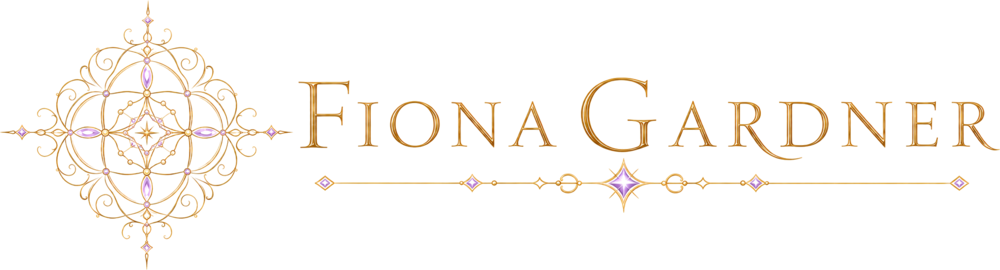
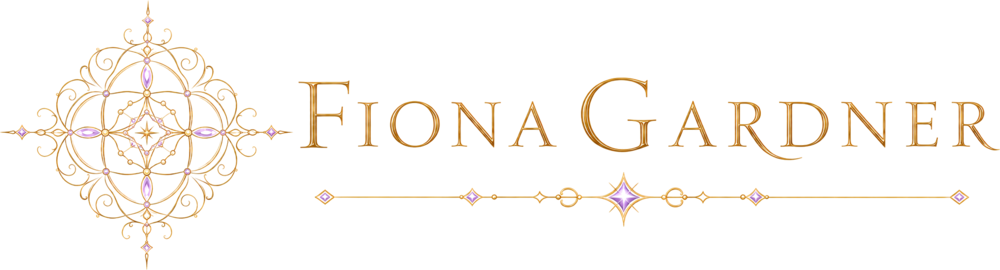
Home page: glowing name line, living waters, turning circles
- Lower photo shows plainly again, without the golden-light fade-in.
- The violet gems and gold diamonds on the line under the name glow
  in turn, from the centre star outward.
- The line under the name sits a little lower in the brandmark, on
  every page; brandmark and site.css links carry a new version tag.
- Tagline: "An observer of life's living waters."
- The work: water itself, in rain, snow and dew.
- The round images on the Reflections and Explorations cards turn
  slowly inside a soft violet and gold halo; on Explorations the
  three glow one after another.
- Visitors who ask for less motion see everything still.

Changed region(s): [[0.31, 0.5926, 0.992, 0.8296]]

diff --git a/docs/index.html b/docs/index.html
@@ -3,16 +3,16 @@
 <head>
   <meta charset="utf-8">
   <meta name="viewport" content="width=device-width, initial-scale=1">
-  <meta name="description" content="Fiona Gardner, an observer of life's hidden waters: blood, living water (urine), rain and dew through the microscope.">
+  <meta name="description" content="Fiona Gardner, an observer of life's living waters: blood, living water (urine), rain, snow and dew through the microscope.">
   <meta name="color-scheme" content="light dark">
   <meta property="og:title" content="Fiona Gardner">
-  <meta property="og:description" content="An observer of life's hidden waters.">
+  <meta property="og:description" content="An observer of life's living waters.">
   <meta property="og:image" content="https://fionagardner.org/assets/fiona-portrait.jpg">
   <title>Fiona Gardner</title>
   <link rel="icon" href="assets/fiona-gardner-symbol.png">
   <link rel="preconnect" href="https://fonts.googleapis.com">
   <link rel="stylesheet" href="https://fonts.googleapis.com/css2?family=Cormorant+Garamond:ital,wght@0,500;0,600;1,500&family=Source+Serif+4:ital,wght@0,400;0,600;1,400&display=swap">
-  <link rel="stylesheet" href="site.css?v=20261125">
+  <link rel="stylesheet" href="site.css?v=20261126">
   <script src="theme-init.js"></script>
 </head>
 <body>
@@ -23,8 +23,8 @@
       <video class="hero-video" src="assets/fiona-portrait-motion.mp4" poster="assets/fiona-portrait-motion.jpg" autoplay loop muted playsinline preload="auto" aria-hidden="true"></video>
     </div>
     <div class="hero-text">
-      <h1><img class="brandmark" src="assets/fiona-gardner-brandmark.png" alt="Fiona Gardner" width="1000" height="270"></h1>
-      <p class="line">An observer of life’s hidden waters.</p>
+      <h1 class="brandmark-frame"><img class="brandmark" src="assets/fiona-gardner-brandmark.png?v=20261126" alt="Fiona Gardner" width="1000" height="270"><span class="gem gem--c" aria-hidden="true"></span><span class="gem gem--l1" aria-hidden="true"></span><span class="gem gem--r1" aria-hidden="true"></span><span class="gem gem--l2" aria-hidden="true"></span><span class="gem gem--r2" aria-hidden="true"></span><span class="gem gem--gold gem--gl1" aria-hidden="true"></span><span class="gem gem--gold gem--gr1" aria-hidden="true"></span><span class="gem gem--gold gem--gold-sm gem--gl2" aria-hidden="true"></span><span class="gem gem--gold gem--gold-sm gem--gr2" aria-hidden="true"></span></h1>
+      <p class="line">An observer of life’s living waters.</p>
     </div>
   </header>
 
@@ -32,7 +32,7 @@
     <section class="shell">
       <p class="eyebrow">The work</p>
       <h2>Rivers of light and water.</h2>
-      <p class="soft">Fiona Gardner explores hidden landscapes through the microscope: blood and living water (urine), and water itself, in rain and dew. Under the lens they appear as rivers of light and water, carrying memory and vitality.</p>
+      <p class="soft">Fiona Gardner explores hidden landscapes through the microscope: blood and living water (urine), and water itself, in rain, snow and dew. Under the lens they appear as rivers of light and water, carrying memory and vitality.</p>
       <p><a class="button" href="gallery.html">See the gallery</a></p>
     </section>
 
@@ -49,14 +49,14 @@
           <a class="way" href="testimonials.html">
             <span class="tag">In their words</span>
             <h3>Reflections from Clients</h3>
-            <span class="way-icons"><img src="assets/testimonials/el-maltese-cross.jpg" alt="" width="640" height="640" loading="lazy"></span>
+            <span class="way-icons"><img class="turning-cross" src="assets/testimonials/el-maltese-cross.jpg" alt="" width="640" height="640" loading="lazy"></span>
             <p>What it is like to see your own living waters.</p>
             <span class="go">Read&nbsp; →</span>
           </a>
           <a class="way" href="explorations.html">
             <span class="tag">Writings</span>
             <h3>Explorations</h3>
-            <span class="way-icons"><img src="assets/explorations/exploring-water-t.jpg" alt="" width="600" height="600" loading="lazy"><img src="assets/explorations/geometry-t.jpg" alt="" width="600" height="600" loading="lazy"><img src="assets/explorations/intention-t.jpg" alt="" width="600" height="600" loading="lazy"></span>
+            <span class="way-icons"><img class="turning-cross" src="assets/explorations/exploring-water-t.jpg" alt="" width="600" height="600" loading="lazy"><img class="turning-cross" src="assets/explorations/geometry-t.jpg" alt="" width="600" height="600" loading="lazy"><img class="turning-cross" src="assets/explorations/intention-t.jpg" alt="" width="600" height="600" loading="lazy"></span>
             <p>Fiona’s writing from the microscope, on water, geometry and consciousness.</p>
             <span class="go">Read&nbsp; →</span>
           </a>
@@ -77,10 +77,7 @@
     </section>
 
     <section class="band">
-      <div class="band-frame">
-        <img class="band-photo" src="assets/fiona-light.jpg" alt="Fiona Gardner, face lifted to the sun, leaning on a weathered log" width="1100" height="1650" loading="lazy">
-        <span class="band-glow" aria-hidden="true"></span>
-      </div>
+      <img class="band-photo" src="assets/fiona-light.jpg" alt="Fiona Gardner, face lifted to the sun, leaning on a weathered log" width="1100" height="1650" loading="lazy">
       <div class="band-text">
         <p class="honour">Recognising the light, water and intelligence within ourselves.</p>
         <p class="soft">Honouring the harmony of the body, mind and spirit.</p>
@@ -111,22 +108,6 @@
     <p>Photographs © LightFinder Photography</p>
   </footer>
   <script src="theme.js" defer></script>
-  <script>
-    // The lower photo comes out of soft golden light each time it scrolls into view, then stays still.
-    // Once it has gone fully off screen, it is quietly reset so it can play again next time.
-    (() => {
-      const frame = document.querySelector('.band-frame');
-      if (!frame || matchMedia('(prefers-reduced-motion: reduce)').matches || !('IntersectionObserver' in window)) return;
-      frame.classList.add('is-waiting');
-      const io = new IntersectionObserver((entries) => {
-        entries.forEach((e) => {
-          if (e.intersectionRatio >= 0.3) frame.classList.add('is-lit');
-          else if (!e.isIntersecting) frame.classList.remove('is-lit');
-        });
-      }, { threshold: [0, 0.3] });
-      io.observe(frame);
-    })();
-  </script>
   <script>
     // Visitors who ask for less motion see the still first frame.
     if (matchMedia('(prefers-reduced-motion: reduce)').matches) document.querySelector('.hero-video')?.pause();

diff --git a/docs/site.css b/docs/site.css
@@ -60,6 +60,31 @@ img { display: block; max-width: 100%; height: auto; }
   text-align: center;
 }
 .brandmark { width: min(100%, 30rem); }
+/* The five violet gems on the line under the name glow softly in turn: the centre star first,
+   then the inner pair, then the outer pair, like light travelling out along the line. Positions are
+   the gems' centres in the brandmark file (1000 x 270). Visitors who ask for less motion see no glow. */
+.brandmark-frame { position: relative; width: min(100%, 30rem); }
+.brandmark-frame .brandmark { width: 100%; }
+.gem { position: absolute; top: 72.9%; width: 4.5%; aspect-ratio: 1; translate: -50% -50%; border-radius: 50%; pointer-events: none;
+  background: radial-gradient(circle, rgba(255, 255, 255, .95) 0%, rgba(214, 190, 255, .7) 28%, rgba(196, 160, 245, .25) 55%, transparent 72%);
+  opacity: 0; animation: gem-glow 7s ease-in-out infinite; }
+.gem--c { left: 62.35%; width: 8%; }
+.gem--l1 { left: 47.15%; animation-delay: .7s; }
+.gem--r1 { left: 75.55%; animation-delay: .7s; }
+.gem--l2 { left: 32.45%; animation-delay: 1.4s; }
+.gem--r2 { left: 95.85%; animation-delay: 1.4s; }
+/* The little gold diamonds between the gems glow too, more gently and in warm gold, as the light passes them. */
+.gem--gold { top: 72.95%; width: 3.2%;
+  background: radial-gradient(circle, rgba(255, 246, 214, .9) 0%, rgba(240, 205, 120, .55) 30%, rgba(225, 185, 95, .18) 55%, transparent 72%);
+  animation-name: gem-glow-soft; }
+.gem--gold-sm { width: 2.2%; }
+.gem--gl1 { left: 53.95%; animation-delay: .35s; }
+.gem--gr1 { left: 70.25%; animation-delay: .35s; }
+.gem--gl2 { left: 49.4%; animation-delay: .55s; }
+.gem--gr2 { left: 74.25%; animation-delay: .55s; }
+@keyframes gem-glow-soft { 0%, 100% { opacity: 0; scale: .7; } 18% { opacity: .75; scale: 1.05; } 40% { opacity: 0; scale: .85; } }
+@keyframes gem-glow { 0%, 100% { opacity: 0; scale: .6; } 18% { opacity: 1; scale: 1.15; } 40% { opacity: 0; scale: .8; } }
+@media (prefers-reduced-motion: reduce) { .gem { display: none; } }
 h1 { margin: 0; }
 .line { margin: 0; color: var(--ink-soft); font-family: var(--display); font-style: italic; font-size: clamp(1.5rem, 3.4vw, 2rem); line-height: 1.25; }
 .button {
@@ -98,19 +123,22 @@ a.way:hover, a.way:focus-visible { border-color: var(--gold); }
 .way .tag { color: var(--violet); font-size: .72rem; font-weight: 600; letter-spacing: .14em; text-transform: uppercase; }
 .way-icons { display: flex; gap: .45rem; margin: .2rem 0; }
 .way-icons img { width: 2.8rem; height: 2.8rem; border-radius: 50%; object-fit: cover; box-shadow: 0 0 0 1px var(--line); }
+/* The round images on the Reflections and Explorations cards turn very slowly, about once a minute and a half,
+   with a soft violet and gold halo breathing around them. On Explorations the three glow one after another,
+   like the light along the name line. Visitors who ask for less motion see them still. */
+.way-icons .turning-cross { animation: cross-turn 90s linear infinite, cross-halo 6s ease-in-out infinite; }
+.way-icons .turning-cross:nth-child(2) { animation-delay: -30s, 2s; }
+.way-icons .turning-cross:nth-child(3) { animation-delay: -60s, 4s; }
+@keyframes cross-turn { to { rotate: 360deg; } }
+@keyframes cross-halo {
+  0%, 100% { box-shadow: 0 0 0 1px var(--line), 0 0 4px 0 rgba(196, 160, 245, .25); }
+  50% { box-shadow: 0 0 0 1px var(--gold), 0 0 14px 3px rgba(196, 160, 245, .55), 0 0 22px 6px rgba(225, 185, 95, .25); }
+}
+@media (prefers-reduced-motion: reduce) { .way-icons .turning-cross { animation: none; } }
 .way .go { color: var(--gold); font-size: .8rem; letter-spacing: .12em; text-transform: uppercase; }
 .band { display: grid; grid-template-columns: minmax(0, 34rem) minmax(0, 1fr); align-items: center; }
 /* Shown whole, never trimmed, like the hero photo. */
 .band-photo { width: 100%; height: auto; }
-/* The lower photo comes out of soft golden light, like the sun coming out, each time it is seen; then it stays still.
-   Only when script is running (is-waiting), so without it the photo simply shows. */
-.band-frame { position: relative; overflow: hidden; }
-.band-glow { position: absolute; inset: 0; pointer-events: none; opacity: 0;
-  background: radial-gradient(ellipse 75% 60% at 52% 44%, #fff8e6 0%, #f6e7c4 45%, #e9d5a8 100%); }
-.band-frame.is-waiting .band-glow { opacity: 1; }
-.band-frame.is-waiting .band-photo { filter: brightness(1.7) contrast(.6) sepia(.3); }
-.band-frame.is-lit .band-glow { opacity: 0; transition: opacity 4.5s cubic-bezier(.4, 0, .3, 1); }
-.band-frame.is-lit .band-photo { filter: none; transition: filter 5.5s cubic-bezier(.4, 0, .3, 1); }
 .band-text { display: grid; align-content: center; gap: 1rem; padding: 3.5rem 2rem; }
 .band-text p { margin: 0; }
 .honour { font-family: var(--display); font-style: italic; font-size: 1.5rem; line-height: 1.35; color: var(--gold); }

diff --git a/docs/testimonials.html b/docs/testimonials.html
@@ -12,13 +12,13 @@
   <link rel="icon" href="assets/fiona-gardner-symbol.png">
   <link rel="preconnect" href="https://fonts.googleapis.com">
   <link rel="stylesheet" href="https://fonts.googleapis.com/css2?family=Cormorant+Garamond:ital,wght@0,500;0,600;1,500&amp;family=Source+Serif+4:ital,wght@0,400;0,600;1,400&amp;display=swap">
-  <link rel="stylesheet" href="site.css?v=20261125">
+  <link rel="stylesheet" href="site.css?v=20261126">
   <script src="theme-init.js"></script>
 </head>
 <body>
   <button class="theme-toggle" type="button" aria-label="Switch to light theme" aria-pressed="true" title="Switch to light theme"><span class="theme-toggle__track" aria-hidden="true"><span class="theme-toggle__sun">✦</span><span class="theme-toggle__moon">☾</span><span class="theme-toggle__knob"></span></span><span class="visually-hidden theme-toggle__label">Switch to light theme</span></button>
   <header class="page-head">
-    <a href="./"><img src="assets/fiona-gardner-brandmark.png" alt="Fiona Gardner, home" width="1000" height="270"></a>
+    <a href="./"><img src="assets/fiona-gardner-brandmark.png?v=20261126" alt="Fiona Gardner, home" width="1000" height="270"></a>
   </header>
 
   <main>

diff --git a/docs/gallery.html b/docs/gallery.html
@@ -12,13 +12,13 @@
   <link rel="icon" href="assets/fiona-gardner-symbol.png">
   <link rel="preconnect" href="https://fonts.googleapis.com">
   <link rel="stylesheet" href="https://fonts.googleapis.com/css2?family=Cormorant+Garamond:ital,wght@0,500;0,600;1,500&family=Source+Serif+4:ital,wght@0,400;0,600;1,400&display=swap">
-  <link rel="stylesheet" href="site.css?v=20261125">
+  <link rel="stylesheet" href="site.css?v=20261126">
   <script src="theme-init.js"></script>
 </head>
 <body>
   <button class="theme-toggle" type="button" aria-label="Switch to dark theme" aria-pressed="false"><span class="theme-toggle__track" aria-hidden="true"><span class="theme-toggle__sun">✦</span><span class="theme-toggle__moon">☾</span><span class="theme-toggle__knob"></span></span><span class="visually-hidden theme-toggle__label">Switch to dark theme</span></button>
   <header class="page-head">
-    <a href="./"><img src="assets/fiona-gardner-brandmark.png" alt="Fiona Gardner, home" width="1000" height="270"></a>
+    <a href="./"><img src="assets/fiona-gardner-brandmark.png?v=20261126" alt="Fiona Gardner, home" width="1000" height="270"></a>
   </header>
 
     <main>

diff --git a/docs/living-portrait.html b/docs/living-portrait.html
@@ -12,13 +12,13 @@
   <link rel="icon" href="assets/fiona-gardner-symbol.png">
   <link rel="preconnect" href="https://fonts.googleapis.com">
   <link rel="stylesheet" href="https://fonts.googleapis.com/css2?family=Cormorant+Garamond:ital,wght@0,500;0,600;1,500&family=Source+Serif+4:ital,wght@0,400;0,600;1,400&display=swap">
-  <link rel="stylesheet" href="site.css?v=20261125">
+  <link rel="stylesheet" href="site.css?v=20261126">
   <script src="theme-init.js"></script>
 </head>
 <body>
   <button class="theme-toggle" type="button" aria-label="Switch to dark theme" aria-pressed="false"><span class="theme-toggle__track" aria-hidden="true"><span class="theme-toggle__sun">✦</span><span class="theme-toggle__moon">☾</span><span class="theme-toggle__knob"></span></span><span class="visually-hidden theme-toggle__label">Switch to dark theme</span></button>
   <header class="page-head">
-    <a href="./"><img src="assets/fiona-gardner-brandmark.png" alt="Fiona Gardner, home" width="1000" height="270"></a>
+    <a href="./"><img src="assets/fiona-gardner-brandmark.png?v=20261126" alt="Fiona Gardner, home" width="1000" height="270"></a>
   </header>
 
     <main>

diff --git a/docs/explorations.html b/docs/explorations.html
@@ -12,13 +12,13 @@
   <link rel="icon" href="assets/fiona-gardner-symbol.png">
   <link rel="preconnect" href="https://fonts.googleapis.com">
   <link rel="stylesheet" href="https://fonts.googleapis.com/css2?family=Cormorant+Garamond:ital,wght@0,500;0,600;1,500&family=Source+Serif+4:ital,wght@0,400;0,600;1,400&display=swap">
-  <link rel="stylesheet" href="site.css?v=20261125">
+  <link rel="stylesheet" href="site.css?v=20261126">
   <script src="theme-init.js"></script>
 </head>
 <body>
   <button class="theme-toggle" type="button" aria-label="Switch to dark theme" aria-pressed="false"><span class="theme-toggle__track" aria-hidden="true"><span class="theme-toggle__sun">✦</span><span class="theme-toggle__moon">☾</span><span class="theme-toggle__knob"></span></span><span class="visually-hidden theme-toggle__label">Switch to dark theme</span></button>
   <header class="page-head">
-    <a href="./"><img src="assets/fiona-gardner-brandmark.png" alt="Fiona Gardner, home" width="1000" height="270"></a>
+    <a href="./"><img src="assets/fiona-gardner-brandmark.png?v=20261126" alt="Fiona Gardner, home" width="1000" height="270"></a>
   </header>
 
   <main>

diff --git a/docs/exploring-water.html b/docs/exploring-water.html
@@ -12,13 +12,13 @@
   <link rel="icon" href="assets/fiona-gardner-symbol.png">
   <link rel="preconnect" href="https://fonts.googleapis.com">
   <link rel="stylesheet" href="https://fonts.googleapis.com/css2?family=Cormorant+Garamond:ital,wght@0,500;0,600;1,500&family=Source+Serif+4:ital,wght@0,400;0,600;1,400&display=swap">
-  <link rel="stylesheet" href="site.css?v=20261125">
+  <link rel="stylesheet" href="site.css?v=20261126">
   <script src="theme-init.js"></script>
 </head>
 <body>
   <button class="theme-toggle" type="button" aria-label="Switch to dark theme" aria-pressed="false"><span class="theme-toggle__track" aria-hidden="true"><span class="theme-toggle__sun">✦</span><span class="theme-toggle__moon">☾</span><span class="theme-toggle__knob"></span></span><span class="visually-hidden theme-toggle__label">Switch to dark theme</span></button>
   <header class="page-head">
-    <a href="./"><img src="assets/fiona-gardner-brandmark.png" alt="Fiona Gardner, home" width="1000" height="270"></a>
+    <a href="./"><img src="assets/fiona-gardner-brandmark.png?v=20261126" alt="Fiona Gardner, home" width="1000" height="270"></a>
   </header>
 
   <main>

diff --git a/docs/geometry-as-a-visual-language.html b/docs/geometry-as-a-visual-language.html
@@ -12,13 +12,13 @@
   <link rel="icon" href="assets/fiona-gardner-symbol.png">
   <link rel="preconnect" href="https://fonts.googleapis.com">
   <link rel="stylesheet" href="https://fonts.googleapis.com/css2?family=Cormorant+Garamond:ital,wght@0,500;0,600;1,500&family=Source+Serif+4:ital,wght@0,400;0,600;1,400&display=swap">
-  <link rel="stylesheet" href="site.css?v=20261125">
+  <link rel="stylesheet" href="site.css?v=20261126">
   <script src="theme-init.js"></script>
 </head>
 <body>
   <button class="theme-toggle" type="button" aria-label="Switch to dark theme" aria-pressed="false"><span class="theme-toggle__track" aria-hidden="true"><span class="theme-toggle__sun">✦</span><span class="theme-toggle__moon">☾</span><span class="theme-toggle__knob"></span></span><span class="visually-hidden theme-toggle__label">Switch to dark theme</span></button>
   <header class="page-head">
-    <a href="./"><img src="assets/fiona-gardner-brandmark.png" alt="Fiona Gardner, home" width="1000" height="270"></a>
+    <a href="./"><img src="assets/fiona-gardner-brandmark.png?v=20261126" alt="Fiona Gardner, home" width="1000" height="270"></a>
   </header>
 
   <main>

diff --git a/docs/intention-consciousness-and-geometry.html b/docs/intention-consciousness-and-geometry.html
@@ -12,13 +12,13 @@
   <link rel="icon" href="assets/fiona-gardner-symbol.png">
   <link rel="preconnect" href="https://fonts.googleapis.com">
   <link rel="stylesheet" href="https://fonts.googleapis.com/css2?family=Cormorant+Garamond:ital,wght@0,500;0,600;1,500&family=Source+Serif+4:ital,wght@0,400;0,600;1,400&display=swap">
-  <link rel="stylesheet" href="site.css?v=20261125">
+  <link rel="stylesheet" href="site.css?v=20261126">
   <script src="theme-init.js"></script>
 </head>
 <body>
   <button class="theme-toggle" type="button" aria-label="Switch to dark theme" aria-pressed="false"><span class="theme-toggle__track" aria-hidden="true"><span class="theme-toggle__sun">✦</span><span class="theme-toggle__moon">☾</span><span class="theme-toggle__knob"></span></span><span class="visually-hidden theme-toggle__label">Switch to dark theme</span></button>
   <header class="page-head">
-    <a href="./"><img src="assets/fiona-gardner-brandmark.png" alt="Fiona Gardner, home" width="1000" height="270"></a>
+    <a href="./"><img src="assets/fiona-gardner-brandmark.png?v=20261126" alt="Fiona Gardner, home" width="1000" height="270"></a>
   </header>
 
   <main>

diff --git a/docs/names-of-light.html b/docs/names-of-light.html
@@ -12,13 +12,13 @@
   <link rel="icon" href="assets/fiona-gardner-symbol.png">
   <link rel="preconnect" href="https://fonts.googleapis.com">
   <link rel="stylesheet" href="https://fonts.googleapis.com/css2?family=Cormorant+Garamond:ital,wght@0,500;0,600;1,500&family=Source+Serif+4:ital,wght@0,400;0,600;1,400&display=swap">
-  <link rel="stylesheet" href="site.css?v=20261125">
+  <link rel="stylesheet" href="site.css?v=20261126">
   <script src="theme-init.js"></script>
 </head>
 <body>
   <button class="theme-toggle" type="button" aria-label="Switch to dark theme" aria-pressed="false"><span class="theme-toggle__track" aria-hidden="true"><span class="theme-toggle__sun">✦</span><span class="theme-toggle__moon">☾</span><span class="theme-toggle__knob"></span></span><span class="visually-hidden theme-toggle__label">Switch to dark theme</span></button>
   <header class="page-head">
-    <a href="./"><img src="assets/fiona-gardner-brandmark.png" alt="Fiona Gardner, home" width="1000" height="270"></a>
+    <a href="./"><img src="assets/fiona-gardner-brandmark.png?v=20261126" alt="Fiona Gardner, home" width="1000" height="270"></a>
   </header>
 
   <main>

diff --git a/docs/services.html b/docs/services.html
@@ -12,13 +12,13 @@
   <link rel="icon" href="assets/fiona-gardner-symbol.png">
   <link rel="preconnect" href="https://fonts.googleapis.com">
   <link rel="stylesheet" href="https://fonts.googleapis.com/css2?family=Cormorant+Garamond:ital,wght@0,500;0,600;1,500&family=Source+Serif+4:ital,wght@0,400;0,600;1,400&display=swap">
-  <link rel="stylesheet" href="site.css?v=20261125">
+  <link rel="stylesheet" href="site.css?v=20261126">
   <script src="theme-init.js"></script>
 </head>
 <body>
   <button class="theme-toggle" type="button" aria-label="Switch to dark theme" aria-pressed="false"><span class="theme-toggle__track" aria-hidden="true"><span class="theme-toggle__sun">✦</span><span class="theme-toggle__moon">☾</span><span class="theme-toggle__knob"></span></span><span class="visually-hidden theme-toggle__label">Switch to dark theme</span></button>
   <header class="page-head">
-    <a href="./"><img src="assets/fiona-gardner-brandmark.png" alt="Fiona Gardner, home" width="1000" height="270"></a>
+    <a href="./"><img src="assets/fiona-gardner-brandmark.png?v=20261126" alt="Fiona Gardner, home" width="1000" height="270"></a>
   </header>
 
   <main>

diff --git a/README.md b/README.md
@@ -1,6 +1,6 @@
 # Fiona Gardner
 
-*An observer of life's hidden waters.*
+*An observer of life's living waters.*
 
 Fiona Gardner's one-page site, built with Ana Seahawk. A plain HTML page in `docs/`, served by GitHub Pages.
 
